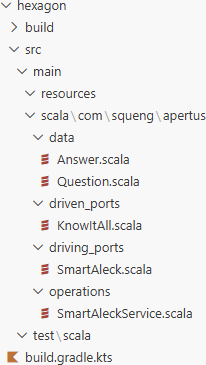
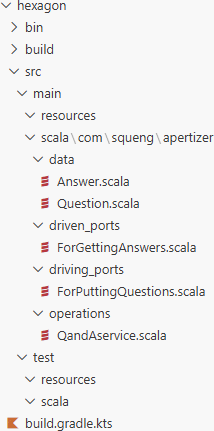
WiP

diff --git a/apertus.md b/apertus.md
@@ -45,8 +45,7 @@ Prepare the folders:
 - within the project folder, alongside the existing `src` folder, create a folder `hexagon`
 - within folder `hexagon`, create another `src` folder 
 - within folder `hexagon/src`, create folders `main` and `test`
-- within folder `hexagon/src/main`, create folders `resources` and `scala`
-- within folder `hexagon/src/test`, create folder `scala`
+- within both folder `hexagon/src/main` and folder `hexagon/src/test`, create folders `resources` and `scala`
 
 Prepare the configuration:
 
@@ -84,6 +83,10 @@ repositories {
 scala {
     scalaVersion = "3.3.7"
 }
+
+dependencies {
+    implementation("jakarta.annotation:jakarta.annotation-api:3.0.0")
+}
 ```
 
 In my experience, applying the Ports & Adapters pattern is not an option but a necessity. It is not even a trade-off, as it still allows for adopting a [Clean](https://blog.cleancoder.com/uncle-bob/2012/08/13/the-clean-architecture.html) or [Onion](https://jeffreypalermo.com/tag/onion-architecture/) architecture when desired. And while I appreciate the *concepts* of [Domain-Driven Design](https://leanpub.com/ddd-by-example) (DDD) as much as the next guy, I [do not follow them mechanically, let alone slavishly](https://www.heise.de/blog/Wendet-man-DDD-auf-DDD-an-bleibt-kein-Domain-Driven-Design-uebrig-11102739.html). I do not even limit myself to [OOP modeling](https://docs.scala-lang.org/scala3/book/taste-modeling.html#oop-domain-modeling); I find it perfectly fine to adopt [FP modeling](https://docs.scala-lang.org/scala3/book/domain-modeling-fp.html) and, for example, represent entities (which are conceptually mutable) by [case classes](https://docs.scala-lang.org/scala3/book/domain-modeling-tools.html#case-classes)/[data classes](https://kotlinlang.org/docs/data-classes.html)/[records](https://dev.java/learn/records/) within a request-response cycle.
@@ -112,7 +115,6 @@ package com.squeng.apertizer;
 
 import org.springframework.context.annotation.Bean;
 import org.springframework.context.annotation.Configuration;
-import org.springframework.security.config.Customizer;
 import org.springframework.security.config.annotation.method.configuration.EnableMethodSecurity;
 import org.springframework.security.config.annotation.web.builders.HttpSecurity;
 import org.springframework.security.config.annotation.web.configuration.EnableWebSecurity;
@@ -125,27 +127,36 @@ public class AppConfigSec {
 
         @Bean
         public SecurityFilterChain filterChain(HttpSecurity http) throws Exception {
-                http.securityMatcher("/**")
-                                .authorizeHttpRequests(authorize -> authorize
-                                                .requestMatchers("/actuator/**")
-                                                .hasRole("ADMIN")
-                                                .requestMatchers("/api/**")
-                                                .hasRole("USER")
-                                                .requestMatchers("/", "/jte/**", "/*.css")
-                                                .permitAll()
-                                                .anyRequest()
-                                                .authenticated())
-                                .headers(headers -> headers
-                                                .contentSecurityPolicy(csp -> csp
-                                                                .policyDirectives(String.join("; ",
-                                                                                "default-src 'none'",
-                                                                                "connect-src 'self'",
-                                                                                "font-src 'self' https://cdn.jsdelivr.net/npm/bootstrap-icons@1.13.1/",
-                                                                                "img-src 'self'",
-                                                                                "script-src 'self' https://cdn.jsdelivr.net/npm/bootstrap@5.3.8/ https://cdn.jsdelivr.net/npm/htmx.org@2.0.8/",
-                                                                                "style-src 'self' https://cdn.jsdelivr.net/npm/bootstrap@5.3.8/ https://cdn.jsdelivr.net/npm/bootstrap-icons@1.13.1/",
-                                                                                "frame-ancestors 'none'"))))
-                                .httpBasic(Customizer.withDefaults());
+                http.authorizeHttpRequests(authorize -> authorize
+                                .requestMatchers("/actuator/**", "/api/poorMansActuator/**")
+                                .hasRole("ADMIN")
+                                .requestMatchers("/apertus/**")
+                                .hasRole("USER")
+                                .requestMatchers("/", "/apple-touch-icon.png", "/favicon.ico", "/favicon.svg", "/*.css")
+                                .permitAll()
+                                .anyRequest()
+                                .authenticated())
+                                .headers(headers -> headers.contentSecurityPolicy(csp -> csp
+                                                .policyDirectives(String.join("; ",
+                                                                "default-src 'none'",
+                                                                "connect-src 'self'",
+                                                                "font-src 'self' https://cdn.jsdelivr.net/npm/bootstrap-icons@1.13.1/",
+                                                                "img-src 'self' data:",
+                                                                "script-src 'self' https://cdn.jsdelivr.net/npm/bootstrap@5.3.8/ https://cdn.jsdelivr.net/npm/htmx.org@2.0.8/",
+                                                                "style-src 'self' 'unsafe-hashes' 'sha256-faU7yAF8NxuMTNEwVmBz+VcYeIoBQ2EMHW3WaVxCvnk=' https://cdn.jsdelivr.net/npm/bootstrap@5.3.8/ https://cdn.jsdelivr.net/npm/bootstrap-icons@1.13.1/",
+                                                                "frame-ancestors 'none'"))))
+                                .sessionManagement(session -> session
+                                                .sessionFixation().newSession())
+                                .formLogin(signIn -> signIn
+                                                .loginPage("/signIn")
+                                                .loginProcessingUrl("/signIn")
+                                                .defaultSuccessUrl("/")
+                                                .permitAll())
+                                .logout(signOut -> signOut
+                                                .logoutUrl("/signOut")
+                                                .logoutSuccessUrl("/signIn?signedOut")
+                                                .invalidateHttpSession(true)
+                                                .permitAll());
                 return http.build();
         }
 }
@@ -292,13 +303,17 @@ trait ForPuttingQuestions:
 ```scala
 package com.squeng.apertizer.operations
 
+import jakarta.annotation.security.RolesAllowed
+
 import com.squeng.apertizer.data.Answer
 import com.squeng.apertizer.data.Question
 import com.squeng.apertizer.driven_ports.ForGettingAnswers
 import com.squeng.apertizer.driving_ports.ForPuttingQuestions
 
 class QandAservice(oracle: ForGettingAnswers) extends ForPuttingQuestions:
+  require(oracle != null, "🐛")
 
+  @RolesAllowed(Array("USER"))
   override def ask(question: Question): Answer =
     oracle.ask(question)
 ```
